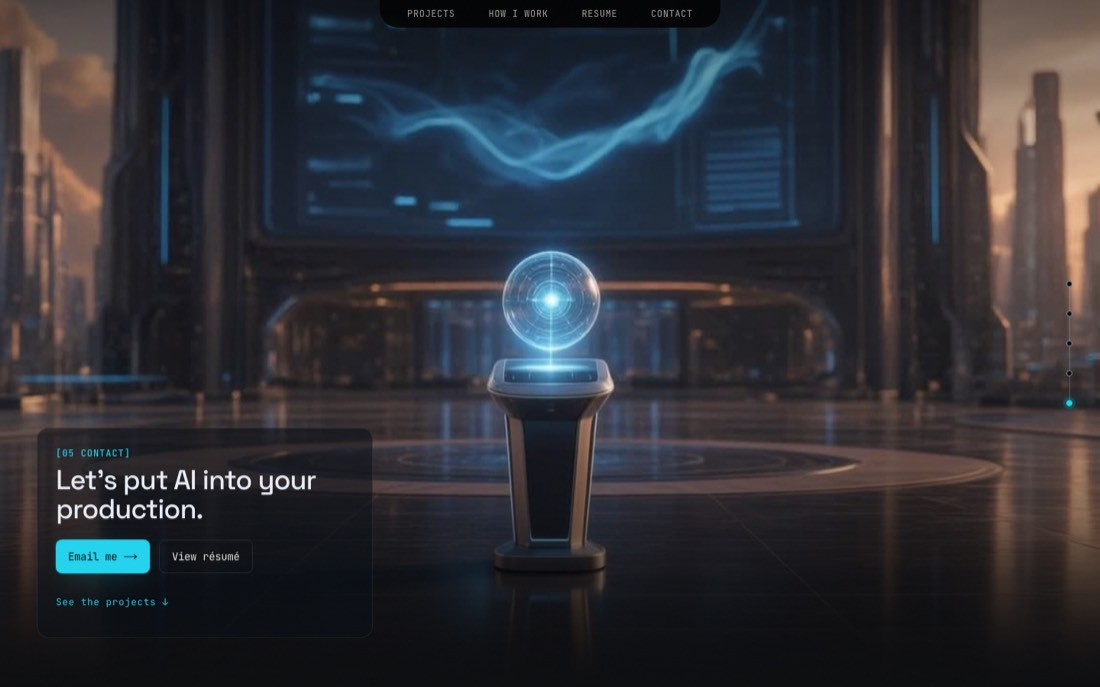
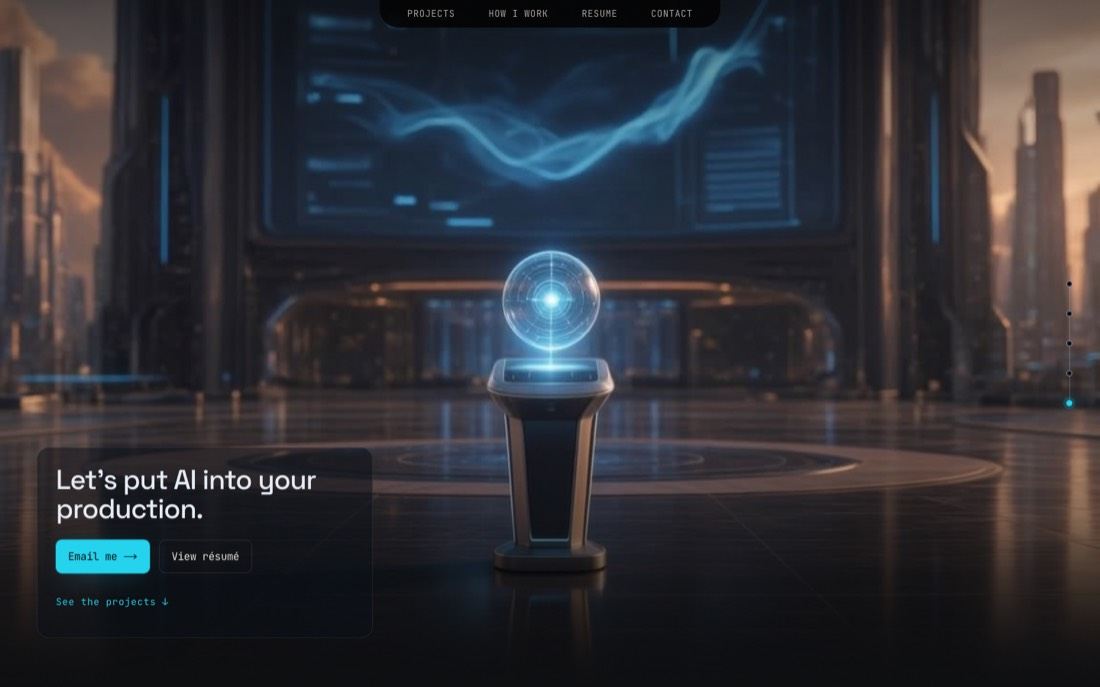
Drop stage labels; cross-fade frames and ease by time for smoother scrub

Changed region(s): [[0.1545, 0.6114, 0.34, 0.6725], [0.0309, 0.6114, 0.1236, 0.6725], [0.1545, 0.7948, 0.2164, 0.8253]]

diff --git a/app/globals.css b/app/globals.css
@@ -71,8 +71,7 @@ body {
 @media (min-width: 640px) { .cs-hero { padding: 0 2rem 3rem; } }
 @media (min-width: 768px) { .cs-hero { padding: 0 3rem 3rem; } }
 
-.cs-tag { font-family: var(--font-mono); font-size: 0.75rem; font-weight: 500; letter-spacing: 0.08em; text-transform: uppercase; color: var(--cs-cyan); }
-.cs-title { margin-top: 0.5rem; font-family: var(--font-display); font-weight: 500; font-size: clamp(1.5rem, 2.6vw, 2.25rem); line-height: 1.05; letter-spacing: -0.03em; color: var(--cs-text); }
+.cs-title { margin-top: 0; font-family: var(--font-display); font-weight: 500; font-size: clamp(1.5rem, 2.6vw, 2.25rem); line-height: 1.05; letter-spacing: -0.03em; color: var(--cs-text); }
 .cs-body { margin-top: 0.6rem; max-width: 62ch; font-size: 0.95rem; line-height: 1.55; color: var(--cs-silver); }
 .cs-link {
   display: inline-flex; align-items: center; gap: 0.4rem; min-height: 44px; margin-top: 0.25rem;
@@ -83,22 +82,21 @@ body {
 .cs-link:focus-visible, .cs-dot:focus-visible { outline: 2px solid var(--cs-cyan); outline-offset: 3px; border-radius: 4px; }
 
 /* Static view */
-.cs-rail, .cs-film-only { display: none; }
+.cs-rail { display: none; }
 .cs-cards { position: relative; z-index: 5; max-width: 72rem; margin: 0 auto; padding: 3rem 1.5rem 1rem; display: grid; gap: 1.5rem; }
 .cs-card, .cs-group { display: grid; gap: 1.25rem; align-items: start; }
-@media (min-width: 768px) { .cs-card, .cs-group { grid-template-columns: 280px 1fr; } .cs-group > .cs-tag { grid-column: 1 / -1; } .cs-group > .cs-item { grid-column: 2; } .cs-group > .cs-still { grid-row: 2 / span 2; } }
+@media (min-width: 768px) { .cs-card, .cs-group { grid-template-columns: 280px 1fr; } .cs-group > .cs-item { grid-column: 2; } .cs-group > .cs-still { grid-row: 1 / span 2; } }
 .cs-still { width: 100%; height: auto; border-radius: 12px; border: 1px solid var(--cs-hairline); }
 .cs-group > .cs-item { display: block; }
 
 /* Film view */
-.cs[data-mode="film"] { height: 520vh; }
+.cs[data-mode="film"] { height: 600vh; }
 .cs[data-mode="film"] .cs-stage { position: sticky; top: 0; height: 100svh; overflow: hidden; }
 .cs[data-mode="film"] .cs-frame { min-height: 0; }
 .cs[data-mode="film"] .cs-media { display: block; }
 .cs[data-mode="film"][data-path="canvas"] video, .cs[data-mode="film"][data-path="video"] canvas { display: none; }
 .cs[data-mode="film"] .cs-poster, .cs[data-mode="film"] .cs-media { transition: opacity 200ms var(--ease-out); }
-.cs[data-mode="film"] .cs-still, .cs[data-mode="film"] .cs-static-only { display: none; }
-.cs[data-mode="film"] .cs-film-only { display: block; }
+.cs[data-mode="film"] .cs-still { display: none; }
 .cs[data-mode="film"] .cs-cards { position: absolute; inset: 0; z-index: 10; max-width: none; padding: 0; display: block; pointer-events: none; }
 .cs[data-mode="film"] .cs-group {
   position: absolute; left: 16px; right: 16px; bottom: 24px;
@@ -144,7 +142,7 @@ body {
 .cs-dot:hover::after { transform: scale(1.3); border-color: var(--cs-silver); }
 .cs-dot[aria-current]::after { background: var(--cs-cyan); border-color: var(--cs-cyan); box-shadow: 0 0 0 4px rgba(34,211,238,0.15), 0 0 14px rgba(34,211,238,0.7); }
 @media (min-width: 768px) and (max-height: 760px) { .cs[data-mode="film"] .cs-item-1 { top: 47%; } }
-@media (max-width: 767px) { .cs[data-mode="film"] { height: 420vh; } }
+@media (max-width: 767px) { .cs[data-mode="film"] { height: 480vh; } }
 
 /* Hero entrance: scale+fade rise, only when motion is welcome */
 @media (prefers-reduced-motion: no-preference) {

diff --git a/lib/city-scroll-engine.ts b/lib/city-scroll-engine.ts
@@ -22,7 +22,7 @@ type Opts = {
 export type ScrubPath = "canvas" | "video";
 
 const FADE = 0.06;
-const LERP = 0.2;
+const SMOOTH_MS = 110; // time constant for easing toward the scroll target (frame-rate independent)
 const CONCURRENCY = 6;
 const clamp = (v: number) => (v < 0 ? 0 : v > 1 ? 1 : v);
 
@@ -94,29 +94,43 @@ export function startCityScroll(els: Els, o: Opts) {
     const dpr = Math.min(devicePixelRatio || 1, 2);
     canvas.width = Math.round(canvas.clientWidth * dpr);
     canvas.height = Math.round(canvas.clientHeight * dpr);
+    if (ctx) ctx.imageSmoothingQuality = "high";
     drawn = -1;
+    drawnKey = "";
   };
 
-  const nearestLoaded = (i: number) => {
-    for (let d = 0; d < o.frameCount; d++) {
-      if (imgs[i - d]) return i - d;
-      if (imgs[i + d]) return i + d;
-    }
-    return -1;
-  };
+  const loadedBelow = (i: number) => { for (let j = Math.floor(i); j >= 0; j--) if (imgs[j]) return j; return -1; };
+  const loadedAbove = (i: number) => { for (let j = Math.ceil(i); j < o.frameCount; j++) if (imgs[j]) return j; return -1; };
 
-  const drawFrame = (p: number) => {
-    if (!ctx) return;
-    const i = nearestLoaded(Math.round(p * (o.frameCount - 1)));
-    if (i < 0 || i === drawn) return; // never clear to a blank frame
-    const img = imgs[i]!;
+  const cover = (img: HTMLImageElement, alpha: number) => {
     const { width: cw, height: ch } = canvas;
     const s = Math.max(cw / img.naturalWidth, ch / img.naturalHeight);
     const dw = img.naturalWidth * s;
     const dh = img.naturalHeight * s;
-    ctx.drawImage(img, (cw - dw) / 2, (ch - dh) / 2, dw, dh);
+    ctx!.globalAlpha = alpha;
+    ctx!.drawImage(img, (cw - dw) / 2, (ch - dh) / 2, dw, dh);
+  };
+
+  // Draws the exact sub-frame position by cross-fading the two nearest loaded frames,
+  // so motion stays continuous between frames (and across gaps while frames are still loading).
+  let drawnKey = "";
+  const drawFrame = (p: number) => {
+    if (!ctx) return;
+    const x = p * (o.frameCount - 1);
+    let a = loadedBelow(x);
+    let b = loadedAbove(x);
+    if (a < 0) a = b;
+    if (b < 0) b = a;
+    if (a < 0) return; // nothing loaded yet: the poster stays up, never a blank frame
+    const t = a === b ? 0 : Math.round(((x - a) / (b - a)) * 24) / 24;
+    const key = `${a}|${b}|${t}`;
+    if (key === drawnKey) return;
+    cover(imgs[a]!, 1);
+    if (t > 0) cover(imgs[b]!, t);
+    ctx.globalAlpha = 1;
     if (drawn < 0 && canvas.style.opacity !== "1") revealMedia(canvas);
-    drawn = i;
+    drawn = a;
+    drawnKey = key;
   };
 
   const pump = () => {
@@ -188,14 +202,18 @@ export function startCityScroll(els: Els, o: Opts) {
   }
 
   // ---------- loop ----------
-  function tick() {
+  let last = 0;
+  function tick(now: number) {
     raf = 0;
+    const dt = last ? Math.min(now - last, 64) : 16;
+    last = now;
     const settled = Math.abs(target - cur) < 1e-4;
-    cur = cur < 0 || settled ? target : cur + (target - cur) * LERP;
+    cur = cur < 0 || settled ? target : cur + (target - cur) * (1 - Math.exp(-dt / SMOOTH_MS));
     applyOverlays(cur);
     if (path === "canvas") drawFrame(cur);
     else seekVideo(cur);
     if (cur !== target) kick();
+    else last = 0;
   }
 
   const onScroll = () => { measure(); kick(); };

diff --git a/components/sections/CityScroll.tsx b/components/sections/CityScroll.tsx
@@ -13,15 +13,12 @@ const navItems = [
   { label: "Contact", href: "#contact" },
 ];
 
-const tag = (s: Stage) => `[${s.n} ${s.label.toUpperCase()}]`;
-
 function StageCard({ s, children }: { s: Stage; children?: React.ReactNode }) {
   return (
     <div className="cs-card" data-testid={`cs-stage-${s.n}`}>
       {/* Keyframe still: only shown in the static (reduced-motion / no-JS) list. */}
       <img className="cs-still" src={s.still} alt={s.stillAlt} loading="lazy" width={640} height={360} />
       <div>
-        <p className="cs-tag">{tag(s)}</p>
         {s.title && <h2 className="cs-title">{s.title}</h2>}
         {s.body && <p className="cs-body">{s.body}</p>}
         {s.href && (
@@ -123,7 +120,6 @@ export function CityScroll() {
         <div className="cs-hero" data-range={`${rooftop.start},${rooftop.end}`} data-testid="cs-stage-01">
           <div className="grid grid-cols-12 items-end gap-6">
             <div className="col-span-12 lg:col-span-8">
-              <p className="cs-tag mb-3 pl-1">{tag(rooftop)}</p>
               <h1 className="cs-rise whitespace-nowrap font-display font-medium leading-[0.85] tracking-[-0.05em] text-cream text-[9.5vw] sm:text-[11vw] md:text-[9.5vw] lg:text-[7.5vw]">
                 Thomas Gates III
               </h1>
@@ -154,7 +150,7 @@ export function CityScroll() {
               key={s.n}
               type="button"
               className="cs-dot"
-              aria-label={`Go to ${s.n} ${s.label}`}
+              aria-label={`Go to ${s.label}`}
               aria-current={i === 0 ? "true" : undefined}
               data-testid={`cs-dot-${s.n}`}
               onClick={() => engine.current?.scrollToStage(i)}
@@ -168,11 +164,9 @@ export function CityScroll() {
         {rest.map((s) =>
           s.items ? (
             <div key={s.n} className="cs-group" data-testid={`cs-stage-${s.n}`}>
-              <p className="cs-tag cs-static-only">{tag(s)}</p>
               <img className="cs-still" src={s.still} alt={s.stillAlt} loading="lazy" width={640} height={360} />
               {s.items.map((it, j) => (
                 <div key={it.title} className={`cs-card cs-item cs-item-${j}`} data-range={`${it.start},${s.end}`}>
-                  <p className="cs-tag cs-film-only">{tag(s)}</p>
                   <h2 className="cs-title">{it.title}</h2>
                   <p className="cs-body">{it.body}</p>
                   {it.href && (

diff --git a/tests/e2e/city-scroll.spec.ts b/tests/e2e/city-scroll.spec.ts
@@ -27,6 +27,11 @@ test("no em dashes in visible copy", async ({ page }) => {
   expect(await page.locator("body").innerText()).not.toContain("—");
 });
 
+test("film stops carry no number/name labels", async ({ page }) => {
+  await page.goto("/");
+  expect(await page.locator("#city-scroll").innerText()).not.toMatch(/\[0\d\s+[A-Z]+\]/);
+});
+
 test("stage links point at real project cards", async ({ page }) => {
   await page.goto("/");
   const hrefs = await page.locator("#city-scroll a[href^='#']").evaluateAll((as) => as.map((a) => a.getAttribute("href")!));

diff --git a/DESIGN.md b/DESIGN.md
@@ -101,7 +101,7 @@ interaction on the site.
 
 ## Colors
 
-- `primary` cyan `#22D3EE` is the signal: active rail dot, stage tags, primary buttons, hover
+- `primary` cyan `#22D3EE` is the signal: active rail dot, "See it live" links, primary buttons, hover
   states. Use it sparingly so it keeps meaning "live".
 - `electric` `#2F6BFF` is the only partner color, for rare secondary emphasis. Never gradient it
   into anything outside the blue family.
@@ -117,7 +117,7 @@ interaction on the site.
 | Stage line (h2) | Space Grotesk 500 | display-md | -0.03em |
 | Section heading | Space Grotesk 500 | heading | -0.02em |
 | Body | Inter 400 | 1rem / 1.6, max 62ch | 0 |
-| Stage tag, nav, buttons | JetBrains Mono 500, uppercase | 0.75rem | +0.08em |
+| Nav, buttons, links | JetBrains Mono 500, uppercase | 0.75rem | +0.08em |
 
 One `<h1>` per page: the name. Stage lines are `<h2>`.
 
@@ -140,13 +140,13 @@ LiquidButton and rail dots.
 
 ## Components
 
-- **HUD card:** panel background, hairline border, 16px radius, 24px padding. Mono stage tag
-  `[02 SIGNAL]` in cyan above an h2 and a silver body line. Fades and lifts in (opacity 0 to 1,
-  translateY 12px to 0) over 6% of scroll.
+- **HUD card:** panel background, hairline border, 16px radius, 24px padding. An h2 and a silver
+  body line, no stage number or label above it. Fades and lifts in (opacity 0 to 1, translateY
+  12px to 0) over 6% of scroll.
 - **Progress rail:** 1px vertical line on the right with five dots as buttons. Active dot is cyan
   with a soft glow. Hidden under 768px.
 - **Buttons:** solid cyan with dark text, or outline with hairline/edge border; 44px min height.
-- **Cards:** existing project cards, `id` equal to the demo id so stage tags can link to them.
+- **Cards:** existing project cards, `id` equal to the demo id so stage cards can link to them.
 
 ## Voice
 
@@ -165,11 +165,12 @@ clients, testimonials, logos or prices. Banned: em dashes in visible copy, "elev
 - Don't build fake product UI out of divs; use the real film frames and stills.
 - Don't use three equal icon-in-circle feature columns or stock headshots.
 - Don't put em dashes in visible copy.
+- Don't label the film stops with numbers or names (`[02 SIGNAL]` style). The headline carries the stop.
 
 ## Responsive Behavior
 
-- ≥768px: canvas frame scrub, 520vh pinned section, HUD bottom-left, rail visible.
-- <768px: video scrub of the 720x1280 crop, 420vh section, HUD bottom-center, no rail.
+- ≥768px: canvas frame scrub (adjacent frames cross-faded), 600vh pinned section, HUD bottom-left, rail visible.
+- <768px: video scrub of the 720x1280 crop, 480vh section, HUD bottom-center, no rail.
 - Save-Data or 2g/3g: video scrub at any width. Reduced motion: no pinning, poster + list.
 - Touch targets 44px minimum.
 
